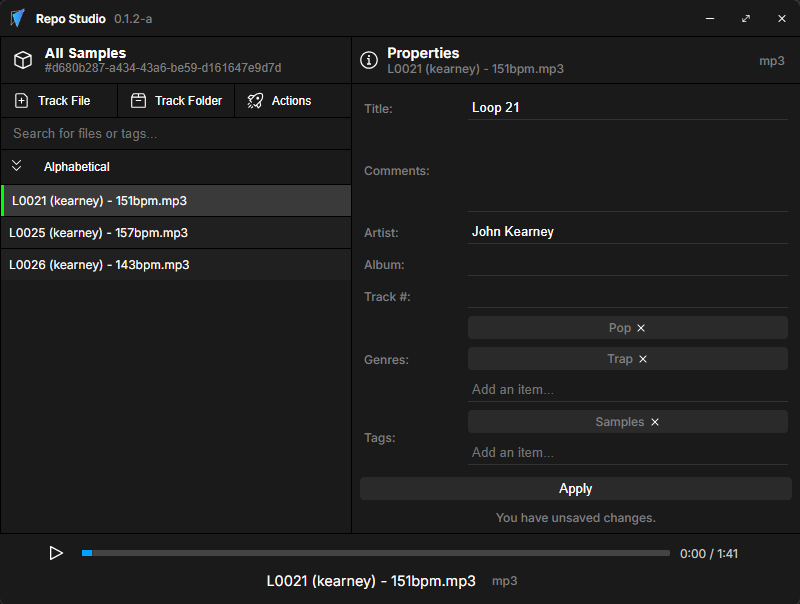
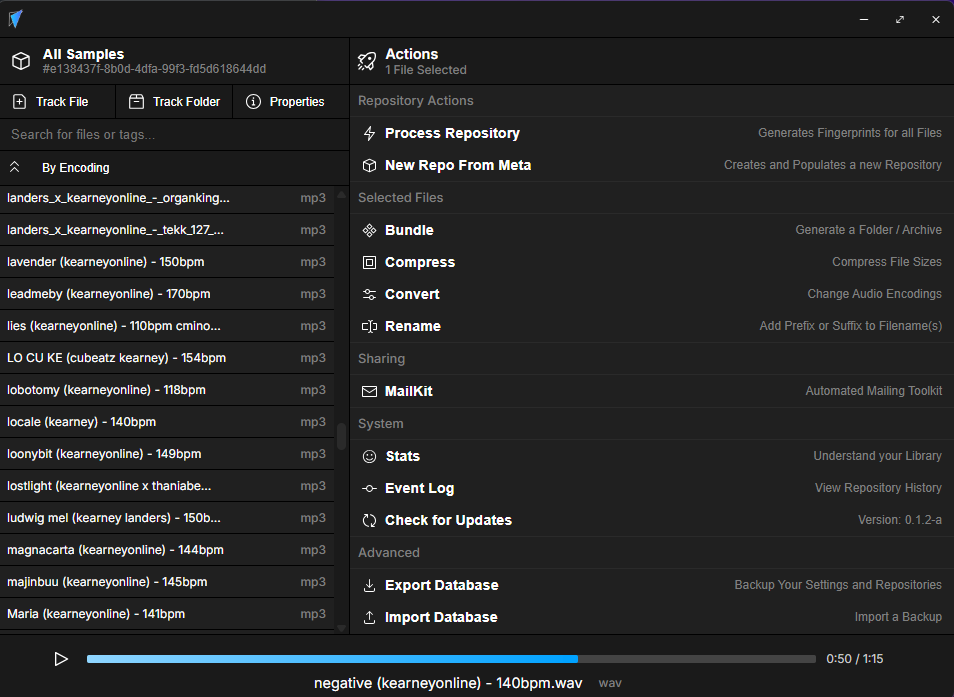
Update Appearance
- Updated `FilePane` list-item appearance
- Updated `ActionsPane` appearance

etc.

diff --git a/src/components/RightPanelContent/ActionsPane/ActionsPane.tsx b/src/components/RightPanelContent/ActionsPane/ActionsPane.tsx
@@ -1,6 +1,11 @@
-import { RocketIcon } from '@radix-ui/react-icons';
+import { BoxModelIcon, CommitIcon, Component1Icon, CubeIcon, DownloadIcon, EnvelopeClosedIcon, FaceIcon, InputIcon, LightningBoltIcon, MixerHorizontalIcon, RocketIcon, SymbolIcon, UploadIcon } from '@radix-ui/react-icons';
 import './ActionsPane.css';
+import { useFileStore } from '../../../scripts/store';
+
+
 export default function ActionsPane() {
+      const selectedFiles = useFileStore((state) => state.selectedFiles);
+    
     return (
         <div className="actions-pane">
         <div className="actions-header">
@@ -8,12 +13,135 @@ export default function ActionsPane() {
             <RocketIcon width={'20px'} height={'20px'} />
             <div className="actions-header-icon-bg">
                 <h4>Actions</h4>
-                <h5>Selected Items</h5>
+                <h5>
+                    {selectedFiles.length} {selectedFiles.length === 1 ? 'File' : 'Files'} Selected
+                </h5>
             </div>
             </div>
         </div>
         <div className="actions-details">
-            This is the Actions Pane. Here you can perform various actions on the selected files.
+            <h5 style={{padding: '0.5rem', fontSize: '0.8rem',
+                borderBottom: '1px solid #2a2a2a'
+                }}>
+                Repository Actions
+            </h5>
+            <button className="actions-details-button">
+                <h4 style={{ display: 'flex', alignItems: 'center', gap: '0.5rem' }}>
+                    <LightningBoltIcon />
+                    Process Repository
+                </h4>
+                <h5>Generates Fingerprints for all Files</h5>
+            </button>
+            <button className="actions-details-button">
+                <h4 style={{ display: 'flex', alignItems: 'center', gap: '0.5rem' }}>
+                    <CubeIcon />
+                    New Repo From Meta
+                </h4>
+                <h5>Creates and Populates a new Repository</h5>
+            </button>
+            <h5 style={{padding: '0.5rem', fontSize: '0.8rem',
+                borderBottom: '1px solid #2a2a2a',
+                borderTop: '1px solid #2a2a2a'
+
+                }}>
+                Selected Files
+            </h5>
+            <button className="actions-details-button">
+                <h4 style={{ display: 'flex', alignItems: 'center', gap: '0.5rem' }}>
+                    <Component1Icon />
+                    Bundle
+                </h4>
+                <h5>Generate a Folder / Archive</h5>
+            </button>
+            <button className="actions-details-button">
+                <h4 style={{ display: 'flex', alignItems: 'center', gap: '0.5rem' }}>
+                    <BoxModelIcon />
+                    Compress
+                </h4>
+                <h5>Compress File Sizes</h5>
+            </button>
+            <button className="actions-details-button">
+                <h4 style={{ display: 'flex', alignItems: 'center', gap: '0.5rem' }}>
+                    <MixerHorizontalIcon />
+                    Convert
+                </h4>
+                <h5>Change Audio Encodings</h5>
+            </button>
+            <button className="actions-details-button">
+                <h4 style={{ display: 'flex', alignItems: 'center', gap: '0.5rem' }}>
+                    <InputIcon />
+                    Rename 
+                </h4>
+                <h5>Add Prefix or Suffix to Filename(s)</h5>
+            </button>
+
+            <h5 style={{padding: '0.5rem', fontSize: '0.8rem',
+                borderBottom: '1px solid #2a2a2a',
+                borderTop: '1px solid #2a2a2a'
+
+                }}>
+                Sharing
+            </h5>
+
+            <button className="actions-details-button">
+                <h4 style={{ display: 'flex', alignItems: 'center', gap: '0.5rem' }}>
+                    <EnvelopeClosedIcon />
+                    MailKit
+                </h4>
+                <h5>Automated Mailing Toolkit</h5>
+            </button>
+
+            <h5 style={{padding: '0.5rem', fontSize: '0.8rem',
+                borderBottom: '1px solid #2a2a2a',
+                borderTop: '1px solid #2a2a2a'
+
+                }}>
+                System
+            </h5>
+            <button className="actions-details-button">
+                <h4 style={{ display: 'flex', alignItems: 'center', gap: '0.5rem' }}>
+                    <FaceIcon />
+                    Stats
+                </h4>
+                <h5>Understand your Library</h5>
+            </button>
+            <button className="actions-details-button">
+                <h4 style={{ display: 'flex', alignItems: 'center', gap: '0.5rem' }}>
+                    <CommitIcon />
+                    Event Log
+                </h4>
+                <h5>View Repository History</h5>
+            </button>
+            <button className="actions-details-button">
+                <h4 style={{ display: 'flex', alignItems: 'center', gap: '0.5rem' }}>
+                    <SymbolIcon />
+                    Check for Updates
+                </h4>
+                <h5>Version: 0.1.2-a</h5>
+            </button>
+
+            <h5 style={{padding: '0.5rem', fontSize: '0.8rem',
+                borderBottom: '1px solid #2a2a2a',
+                borderTop: '1px solid #2a2a2a'
+
+                }}>
+                Advanced
+            </h5>
+            <button className="actions-details-button">
+                <h4 style={{ display: 'flex', alignItems: 'center', gap: '0.5rem' }}>
+                    <DownloadIcon />
+                    Export Database
+                </h4>
+                <h5>Backup Your Settings and Repositories</h5>
+            </button>
+            <button className="actions-details-button">
+                <h4 style={{ display: 'flex', alignItems: 'center', gap: '0.5rem' }}>
+                    <UploadIcon />
+                    Import Database
+                </h4>
+                <h5>Import a Backup</h5>
+            </button>
+            
         </div>
         </div>
     );

diff --git a/src/components/FileBrowser/FilePane.tsx b/src/components/FileBrowser/FilePane.tsx
@@ -143,7 +143,7 @@ useEffect(() => {
   if (fingerprintingTotal > 0) {
     if (fingerprintingCompleted < fingerprintingTotal) {
       // Always show the progress message while tasks remain.
-      setProgressItemMessage(`Fingerprinting ${fingerprintingTotal} Files...`);
+      setProgressItemMessage(`Fingerprinting ${fingerprintingTotal} File(s)...`);
     } else if (fingerprintingCompleted === fingerprintingTotal) {
       setProgressItemMessage('Done!');
       // Keep the "Done!" message for 2 seconds before clearing.
@@ -450,6 +450,15 @@ const getAllAudioFilesRecursively = async (directory: string): Promise<string[]>
     [sortedFiles, anchorIndex, selectedRepository, setSelectedFiles]
   );
 
+  const truncateFileName = (fileName: string): string => {
+    const lastDotIndex = fileName.lastIndexOf('.');
+    const nameWithoutExtension = lastDotIndex === -1 ? fileName : fileName.slice(0, lastDotIndex);
+    return nameWithoutExtension.length > 35
+      ? nameWithoutExtension.slice(0, 35) + '…'
+      : nameWithoutExtension;
+  };
+  
+
   // Keyboard navigation remains unchanged.
   const handleKeyDown = useCallback(
     (e: React.KeyboardEvent<HTMLDivElement>) => {
@@ -582,6 +591,8 @@ const getAllAudioFilesRecursively = async (directory: string): Promise<string[]>
                     top: 0,
                     backgroundColor: '#1a1a1a',
                     borderBottom: '1px solid black',
+                    justifyContent: 'flex-start',
+                    gap: '0rem',
                   }}
                 >
                   {progressItemMessage !== 'Done!' ? (
@@ -620,7 +631,8 @@ const getAllAudioFilesRecursively = async (directory: string): Promise<string[]>
                   onMouseDown={handleMouseDown}
                   onMouseUp={(e) => handleMouseUp(e, file, index)}
                 >
-                  {file.name}
+                  {truncateFileName(file.name)}
+                  <h5>{file.encoding}</h5>
                 </motion.div>
               ))}
             </AnimatePresence>

diff --git a/src/components/RightPanelContent/ActionsPane/ActionsPane.css b/src/components/RightPanelContent/ActionsPane/ActionsPane.css
@@ -4,7 +4,7 @@
     display: flex;
     flex-direction: column;
     width: 100%;
-    flex: 1;
+    height: calc((var(--vh, 1vh) * 100) - 100px);
   }
   
   .actions-header {
@@ -76,3 +76,30 @@
       height: 100%;
       user-select: none;
   }
+
+  .actions-details-button {
+    display: flex;
+    justify-content: space-between;
+    align-items: center;
+    padding: 0.5rem 0.75rem;
+    background-color: #202020;
+    color: white;
+    border: none;
+    cursor: pointer;
+    transition: all 0.3s;
+    border-radius: 0.25rem;
+    gap: 0.35rem;
+    width: 100%;
+  }
+
+.actions-details-button:hover {
+    color: #3a9ed8;
+    background-color: #2a2a2a;
+}
+
+.actions-details {
+    display: flex;
+    flex-direction: column;
+    height: 100%;
+    overflow-y: auto;
+}

diff --git a/src/components/FileBrowser/FilePane.css b/src/components/FileBrowser/FilePane.css
@@ -5,7 +5,7 @@
     max-width: 25vw;
     display: flex;
     flex-direction: column;
-    height: calc((var(--vh, 1vh) * 100) - 93px);
+    height: calc((var(--vh, 1vh) * 100) - 100px);
 }
 
 .toolbar {
@@ -70,6 +70,7 @@
 .list-item {
     background-color: #202020;
     display: flex;
+    justify-content: space-between;
     align-items: center;
     padding: 0.5rem;
     font-size: 0.75rem;

diff --git a/src/components/RightPanelContent/PropertiesPane/PropertiesPane.tsx b/src/components/RightPanelContent/PropertiesPane/PropertiesPane.tsx
@@ -18,7 +18,7 @@ const PropertiesPane: React.FC = () => {
             <div className="properties-header-icon-bg">
               <h4>Properties</h4>
               <h5 style={{ textOverflow: 'ellipsis' }}>
-                {singleSelected?.name || 'No file selected'}
+                {singleSelected?.name || '0 Files Selected'}
               </h5>
             </div>
           </div>

diff --git a/src/components/RightPanelContent/PropertiesPane/PropertiesPane.css b/src/components/RightPanelContent/PropertiesPane/PropertiesPane.css
@@ -2,7 +2,7 @@
   display: flex;
   flex-direction: column;
   width: 100%;
-  height: calc((var(--vh, 1vh) * 100) - 93px);
+  height: calc((var(--vh, 1vh) * 100) - 100px);
 }
 
 .properties-header {

diff --git a/README.md b/README.md
@@ -122,8 +122,10 @@ npm run tauri build
 - [x] File System Metadata Sync
 - [x] True Folder Tracking  
 - [x] Real-time Folder Monitoring
-- [ ] File Selection & Management (deletion & removal)
+- [x] File Selection & Management
+- [x] Actions Page
 - [ ] Settings Page
+
 
 ---
 
